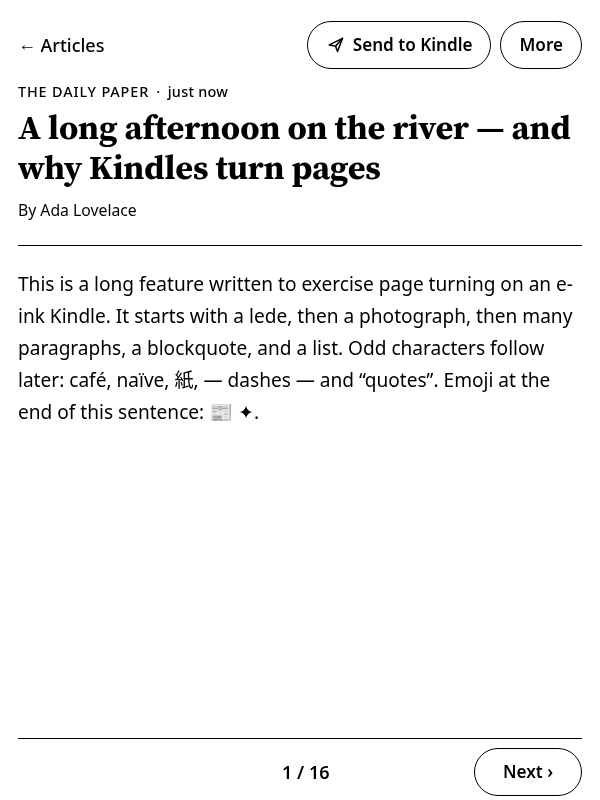
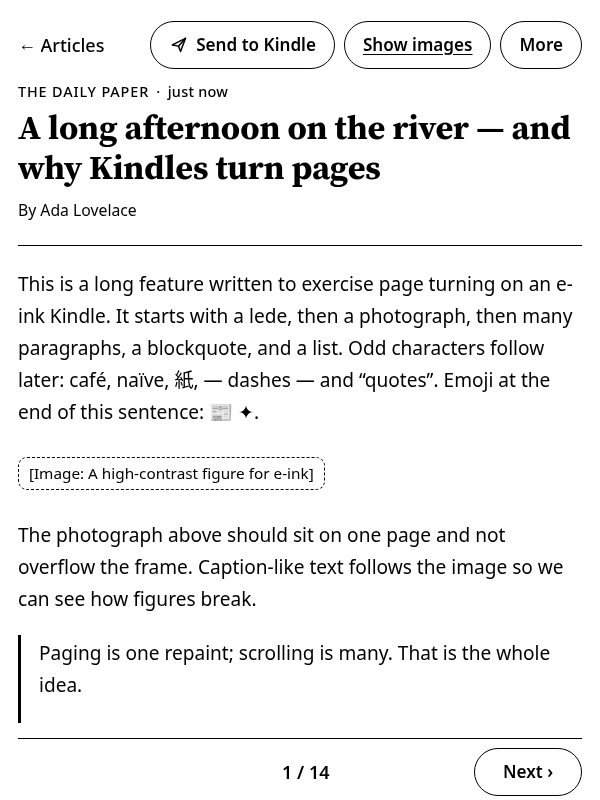
Add e-ink text size, a Show images toolbar button, and amazon.com setup
Reading settings now offer Small/Medium/Large and sans/serif for the
e-ink layout, stored in an eink-type cookie (no migration). The article
toolbar on e-ink has Show images / Hide images, list Send buttons always
show the word Send, and Kindle setup links point at amazon.com.

diff --git a/src/main/resources/templates/settings-reading.html b/src/main/resources/templates/settings-reading.html
@@ -1,5 +1,5 @@
 <!DOCTYPE html>
-<html lang="en" xmlns:th="http://www.thymeleaf.org" th:classappend="${einkLayout} ? 'eink'">
+<html lang="en" xmlns:th="http://www.thymeleaf.org" th:classappend="${einkLayout} ? ('eink' + ${einkTypeClasses})">
 <head th:replace="~{fragments/settings-shell :: head('Reading')}"></head>
 <body class="has-tabbar">
 <th:block th:replace="~{fragments/app-shell :: appBar('settings')}"></th:block>
@@ -40,6 +40,29 @@
     <a class="chip" th:href="@{/settings/reading(layout='scroll')}"
        th:classappend="${layoutPreference == 'scroll'} ? 'active'"
        th:attr="aria-current=${layoutPreference == 'scroll'} ? 'true' : null">Scrolling</a>
+  </nav>
+
+  <h2 class="space-top-lg">Text on e-ink</h2>
+  <p class="meta">Text size and typeface for the e-ink page layout. They do not change
+    phones or desktops. The choice is kept in a cookie on this device.</p>
+  <nav class="row" aria-label="Text size">
+    <a class="chip" th:href="@{/settings/reading(text='s')}"
+       th:classappend="${einkTypeSize == 's'} ? 'active'"
+       th:attr="aria-current=${einkTypeSize == 's'} ? 'true' : null">Small</a>
+    <a class="chip" th:href="@{/settings/reading(text='m')}"
+       th:classappend="${einkTypeSize == 'm'} ? 'active'"
+       th:attr="aria-current=${einkTypeSize == 'm'} ? 'true' : null">Medium</a>
+    <a class="chip" th:href="@{/settings/reading(text='l')}"
+       th:classappend="${einkTypeSize == 'l'} ? 'active'"
+       th:attr="aria-current=${einkTypeSize == 'l'} ? 'true' : null">Large</a>
+  </nav>
+  <nav class="row space-top" aria-label="Typeface">
+    <a class="chip" th:href="@{/settings/reading(font='sans')}"
+       th:classappend="${einkTypeFace == 'sans'} ? 'active'"
+       th:attr="aria-current=${einkTypeFace == 'sans'} ? 'true' : null">Sans-serif</a>
+    <a class="chip" th:href="@{/settings/reading(font='serif')}"
+       th:classappend="${einkTypeFace == 'serif'} ? 'active'"
+       th:attr="aria-current=${einkTypeFace == 'serif'} ? 'true' : null">Serif</a>
   </nav>
 
   <div th:replace="~{fragments/site-footer :: siteFooter}"></div>

diff --git a/src/main/resources/templates/index.html b/src/main/resources/templates/index.html
@@ -1,5 +1,5 @@
 <!DOCTYPE html>
-<html lang="en" xmlns:th="http://www.thymeleaf.org" th:classappend="${einkLayout} ? 'eink'">
+<html lang="en" xmlns:th="http://www.thymeleaf.org" th:classappend="${einkLayout} ? ('eink' + ${einkTypeClasses})">
 <head>
   <meta charset="utf-8"/>
   <meta name="viewport" content="width=device-width, initial-scale=1, viewport-fit=cover"/>
@@ -27,7 +27,7 @@
       <li>Add our sender address
         <strong th:text="${mailFrom} ?: 'shown on the Settings page'">mail@extrablatt.app</strong>
         to Amazon's <em>Approved Personal Document E-mail List</em>. Open your
-        <a href="https://www.amazon.de/hz/mycd/preferences/myx#/home/settings/payment"
+        <a href="https://www.amazon.com/hz/mycd/preferences/myx#/home/settings/payment"
            target="_blank" rel="noopener noreferrer">Amazon content &amp; devices settings</a>
         — this is easiest to do on your phone.</li>
     </ol>

diff --git a/src/main/resources/templates/article.html b/src/main/resources/templates/article.html
@@ -1,5 +1,5 @@
 <!DOCTYPE html>
-<html lang="en" xmlns:th="http://www.thymeleaf.org" th:classappend="${einkLayout} ? 'eink'">
+<html lang="en" xmlns:th="http://www.thymeleaf.org" th:classappend="${einkLayout} ? ('eink' + ${einkTypeClasses})">
 <head>
   <meta charset="utf-8"/>
   <meta name="viewport" content="width=device-width, initial-scale=1, viewport-fit=cover"/>
@@ -33,6 +33,10 @@
         <span data-send-label>Send to Kindle</span>
       </button>
     </form>
+    <a class="btn" th:if="${einkLayout and !images}"
+       th:href="@{/articles/{id}(id=${article.id}, images=true)}">Show images</a>
+    <a class="btn" th:if="${einkLayout and images}"
+       th:href="@{/articles/{id}(id=${article.id})}">Hide images</a>
     <details class="action-menu" data-action-menu>
       <summary class="btn" aria-label="More actions">More</summary>
       <div class="action-menu-items">

diff --git a/src/main/resources/templates/settings-kindle.html b/src/main/resources/templates/settings-kindle.html
@@ -1,5 +1,5 @@
 <!DOCTYPE html>
-<html lang="en" xmlns:th="http://www.thymeleaf.org" th:classappend="${einkLayout} ? 'eink'">
+<html lang="en" xmlns:th="http://www.thymeleaf.org" th:classappend="${einkLayout} ? ('eink' + ${einkTypeClasses})">
 <head th:replace="~{fragments/settings-shell :: head('Kindle')}"></head>
 <body class="has-tabbar">
 <th:block th:replace="~{fragments/app-shell :: appBar('settings')}"></th:block>
@@ -40,7 +40,7 @@
           to the <em>Approved Personal Document E-mail List</em>.</li>
       </ol>
       <p>
-        <a class="btn" href="https://www.amazon.de/hz/mycd/preferences/myx#/home/settings/payment"
+        <a class="btn" href="https://www.amazon.com/hz/mycd/preferences/myx#/home/settings/payment"
            target="_blank" rel="noopener noreferrer">Open Amazon settings</a>
         — easiest to complete on your phone.
       </p>

diff --git a/src/main/resources/static/css/eink.css b/src/main/resources/static/css/eink.css
@@ -42,6 +42,27 @@ html.eink body {
   color: #000000;
 }
 
+/* Reading type, chosen under Settings > Reading (cookie eink-type, see EinkType).
+   Medium sans is the default and has no class. The root size scales every rem, so
+   the whole page follows. Literal values: old Kindle browsers lack custom properties. */
+html.eink.eink-size-s {
+  font-size: 100%;
+}
+
+html.eink.eink-size-l {
+  font-size: 131.25%;
+}
+
+html.eink.eink-face-serif body {
+  font-family: Georgia, "Times New Roman", serif;
+}
+
+/* The word stays next to the paper-plane icon at every width (app.css hides it
+   under 720px on phones; a 600px Kindle should say what the button does). */
+html.eink .send-btn .send-word {
+  display: inline;
+}
+
 html.eink *,
 html.eink *::before,
 html.eink *::after {

diff --git a/src/main/resources/templates/settings-subscription.html b/src/main/resources/templates/settings-subscription.html
@@ -1,5 +1,5 @@
 <!DOCTYPE html>
-<html lang="en" xmlns:th="http://www.thymeleaf.org" th:classappend="${einkLayout} ? 'eink'">
+<html lang="en" xmlns:th="http://www.thymeleaf.org" th:classappend="${einkLayout} ? ('eink' + ${einkTypeClasses})">
 <head th:replace="~{fragments/settings-shell :: head('Subscription')}"></head>
 <body class="has-tabbar">
 <th:block th:replace="~{fragments/app-shell :: appBar('settings')}"></th:block>

diff --git a/src/main/resources/templates/settings-api-tokens.html b/src/main/resources/templates/settings-api-tokens.html
@@ -1,5 +1,5 @@
 <!DOCTYPE html>
-<html lang="en" xmlns:th="http://www.thymeleaf.org" th:classappend="${einkLayout} ? 'eink'">
+<html lang="en" xmlns:th="http://www.thymeleaf.org" th:classappend="${einkLayout} ? ('eink' + ${einkTypeClasses})">
 <head th:replace="~{fragments/settings-shell :: head('API tokens')}"></head>
 <body class="has-tabbar">
 <th:block th:replace="~{fragments/app-shell :: appBar('settings')}"></th:block>

diff --git a/src/main/resources/templates/settings-changelog.html b/src/main/resources/templates/settings-changelog.html
@@ -1,5 +1,5 @@
 <!DOCTYPE html>
-<html lang="en" xmlns:th="http://www.thymeleaf.org" th:classappend="${einkLayout} ? 'eink'">
+<html lang="en" xmlns:th="http://www.thymeleaf.org" th:classappend="${einkLayout} ? ('eink' + ${einkTypeClasses})">
 <head th:replace="~{fragments/settings-shell :: head('Changelog')}"></head>
 <body class="has-tabbar">
 <th:block th:replace="~{fragments/app-shell :: appBar('settings')}"></th:block>

diff --git a/src/main/resources/templates/settings-data.html b/src/main/resources/templates/settings-data.html
@@ -1,5 +1,5 @@
 <!DOCTYPE html>
-<html lang="en" xmlns:th="http://www.thymeleaf.org" th:classappend="${einkLayout} ? 'eink'">
+<html lang="en" xmlns:th="http://www.thymeleaf.org" th:classappend="${einkLayout} ? ('eink' + ${einkTypeClasses})">
 <head th:replace="~{fragments/settings-shell :: head('Your data')}"></head>
 <body class="has-tabbar">
 <th:block th:replace="~{fragments/app-shell :: appBar('settings')}"></th:block>

diff --git a/src/main/resources/templates/settings.html b/src/main/resources/templates/settings.html
@@ -1,5 +1,5 @@
 <!DOCTYPE html>
-<html lang="en" xmlns:th="http://www.thymeleaf.org" th:classappend="${einkLayout} ? 'eink'">
+<html lang="en" xmlns:th="http://www.thymeleaf.org" th:classappend="${einkLayout} ? ('eink' + ${einkTypeClasses})">
 <head th:replace="~{fragments/settings-shell :: head('Settings')}"></head>
 <body class="has-tabbar">
 <th:block th:replace="~{fragments/app-shell :: appBar('settings')}"></th:block>

diff --git a/src/main/resources/templates/settings-account.html b/src/main/resources/templates/settings-account.html
@@ -1,5 +1,5 @@
 <!DOCTYPE html>
-<html lang="en" xmlns:th="http://www.thymeleaf.org" th:classappend="${einkLayout} ? 'eink'">
+<html lang="en" xmlns:th="http://www.thymeleaf.org" th:classappend="${einkLayout} ? ('eink' + ${einkTypeClasses})">
 <head th:replace="~{fragments/settings-shell :: head('Account')}"></head>
 <body class="has-tabbar">
 <th:block th:replace="~{fragments/app-shell :: appBar('settings')}"></th:block>

diff --git a/src/main/resources/templates/admin.html b/src/main/resources/templates/admin.html
@@ -1,5 +1,5 @@
 <!DOCTYPE html>
-<html lang="en" xmlns:th="http://www.thymeleaf.org" th:classappend="${einkLayout} ? 'eink'">
+<html lang="en" xmlns:th="http://www.thymeleaf.org" th:classappend="${einkLayout} ? ('eink' + ${einkTypeClasses})">
 <head>
   <meta charset="utf-8"/>
   <meta name="viewport" content="width=device-width, initial-scale=1, viewport-fit=cover"/>
